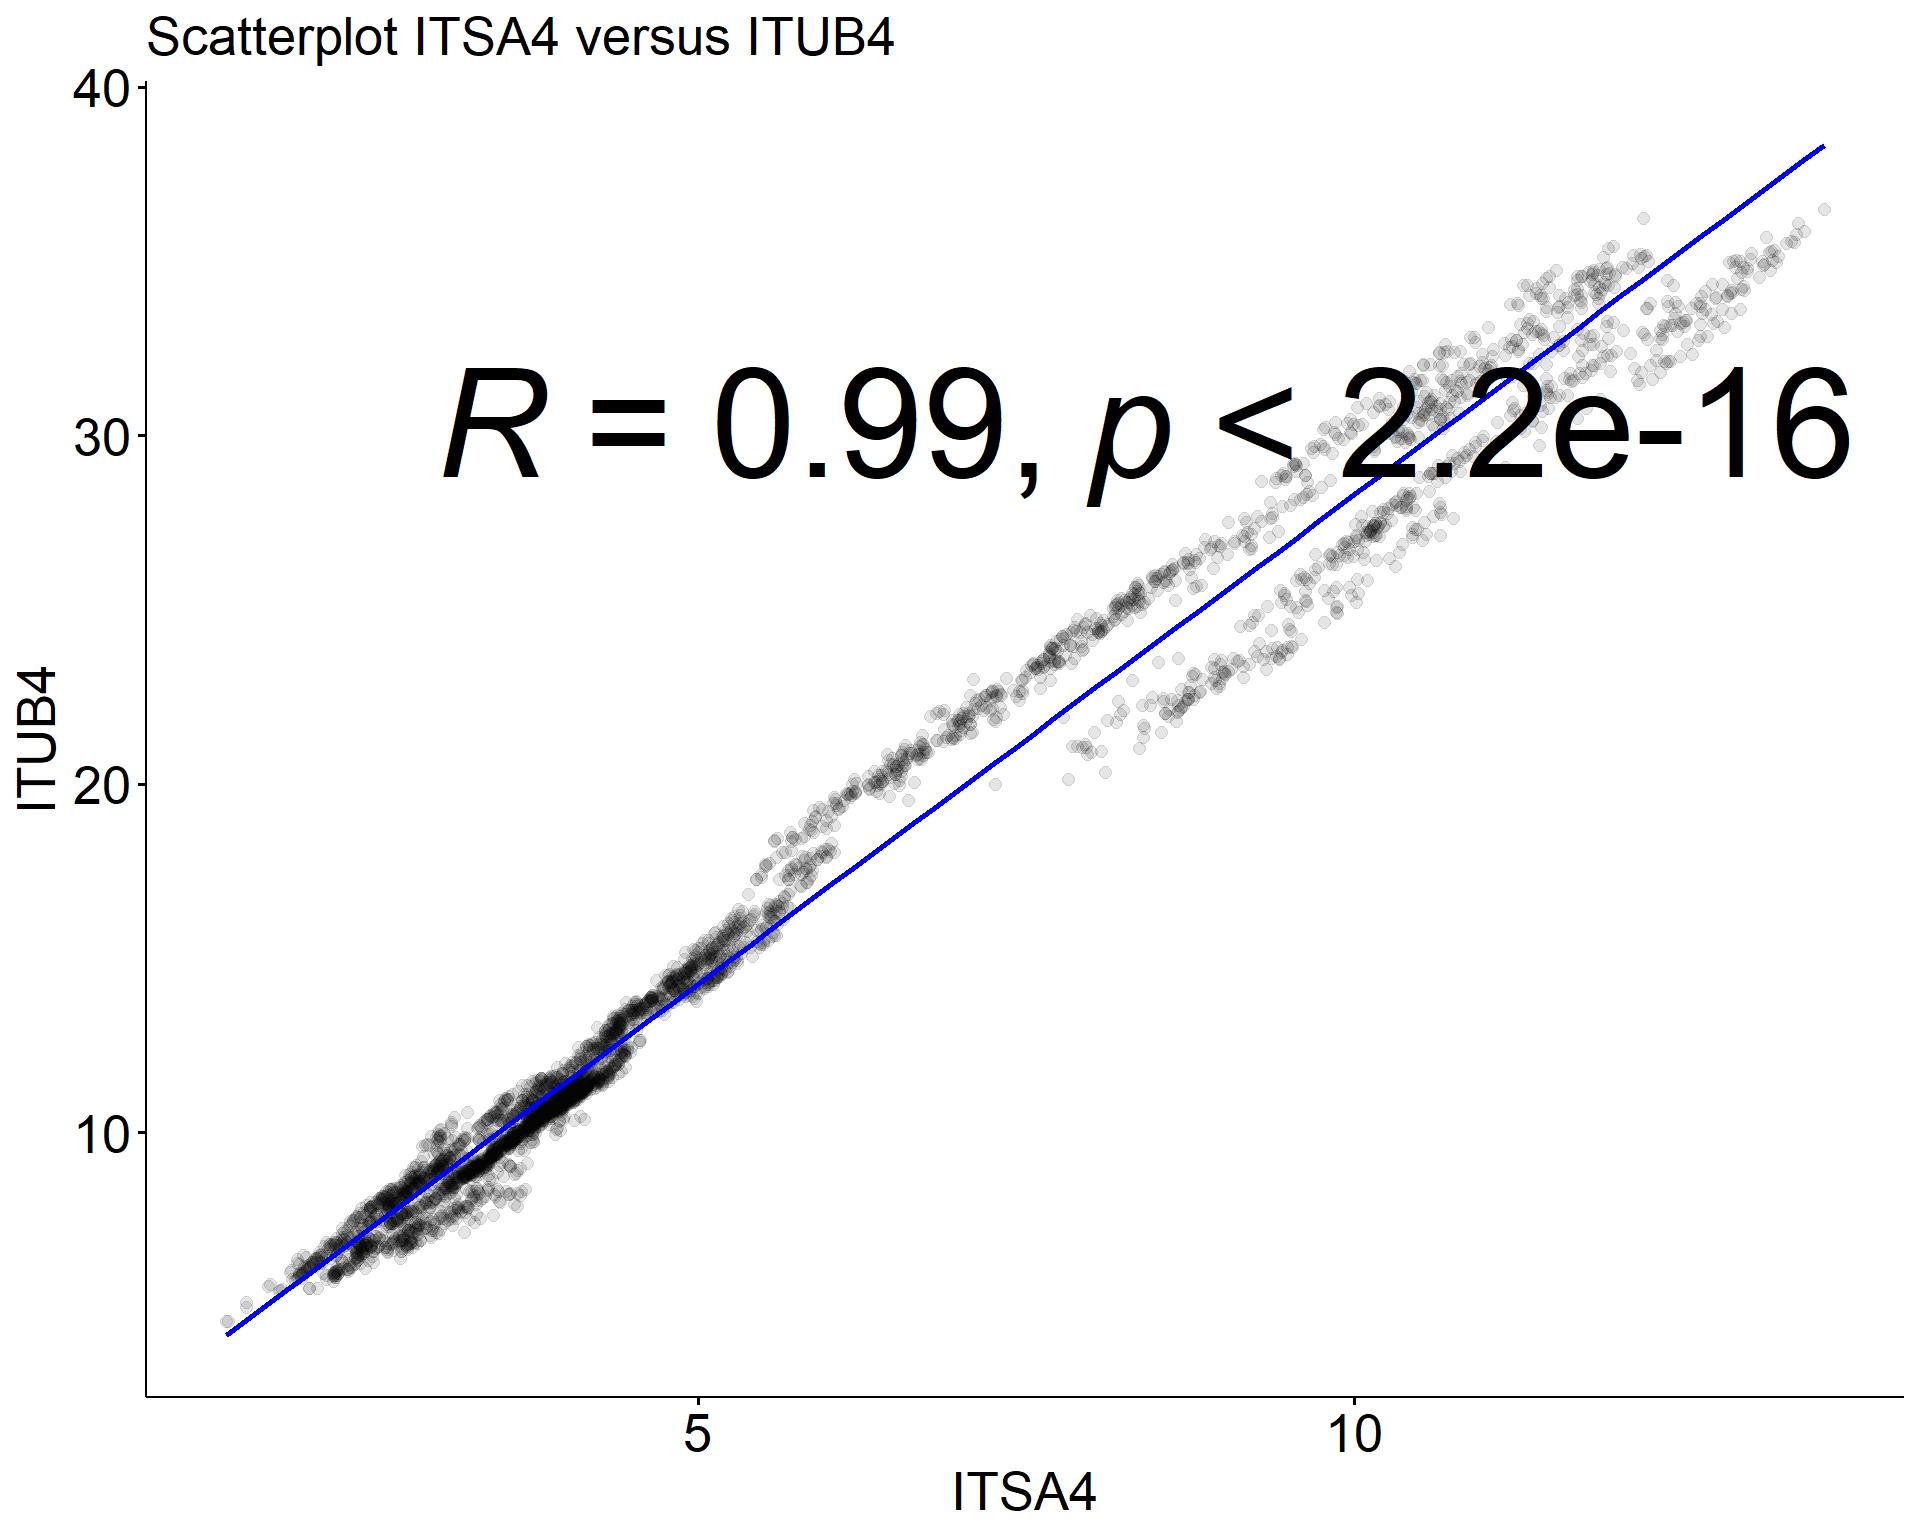
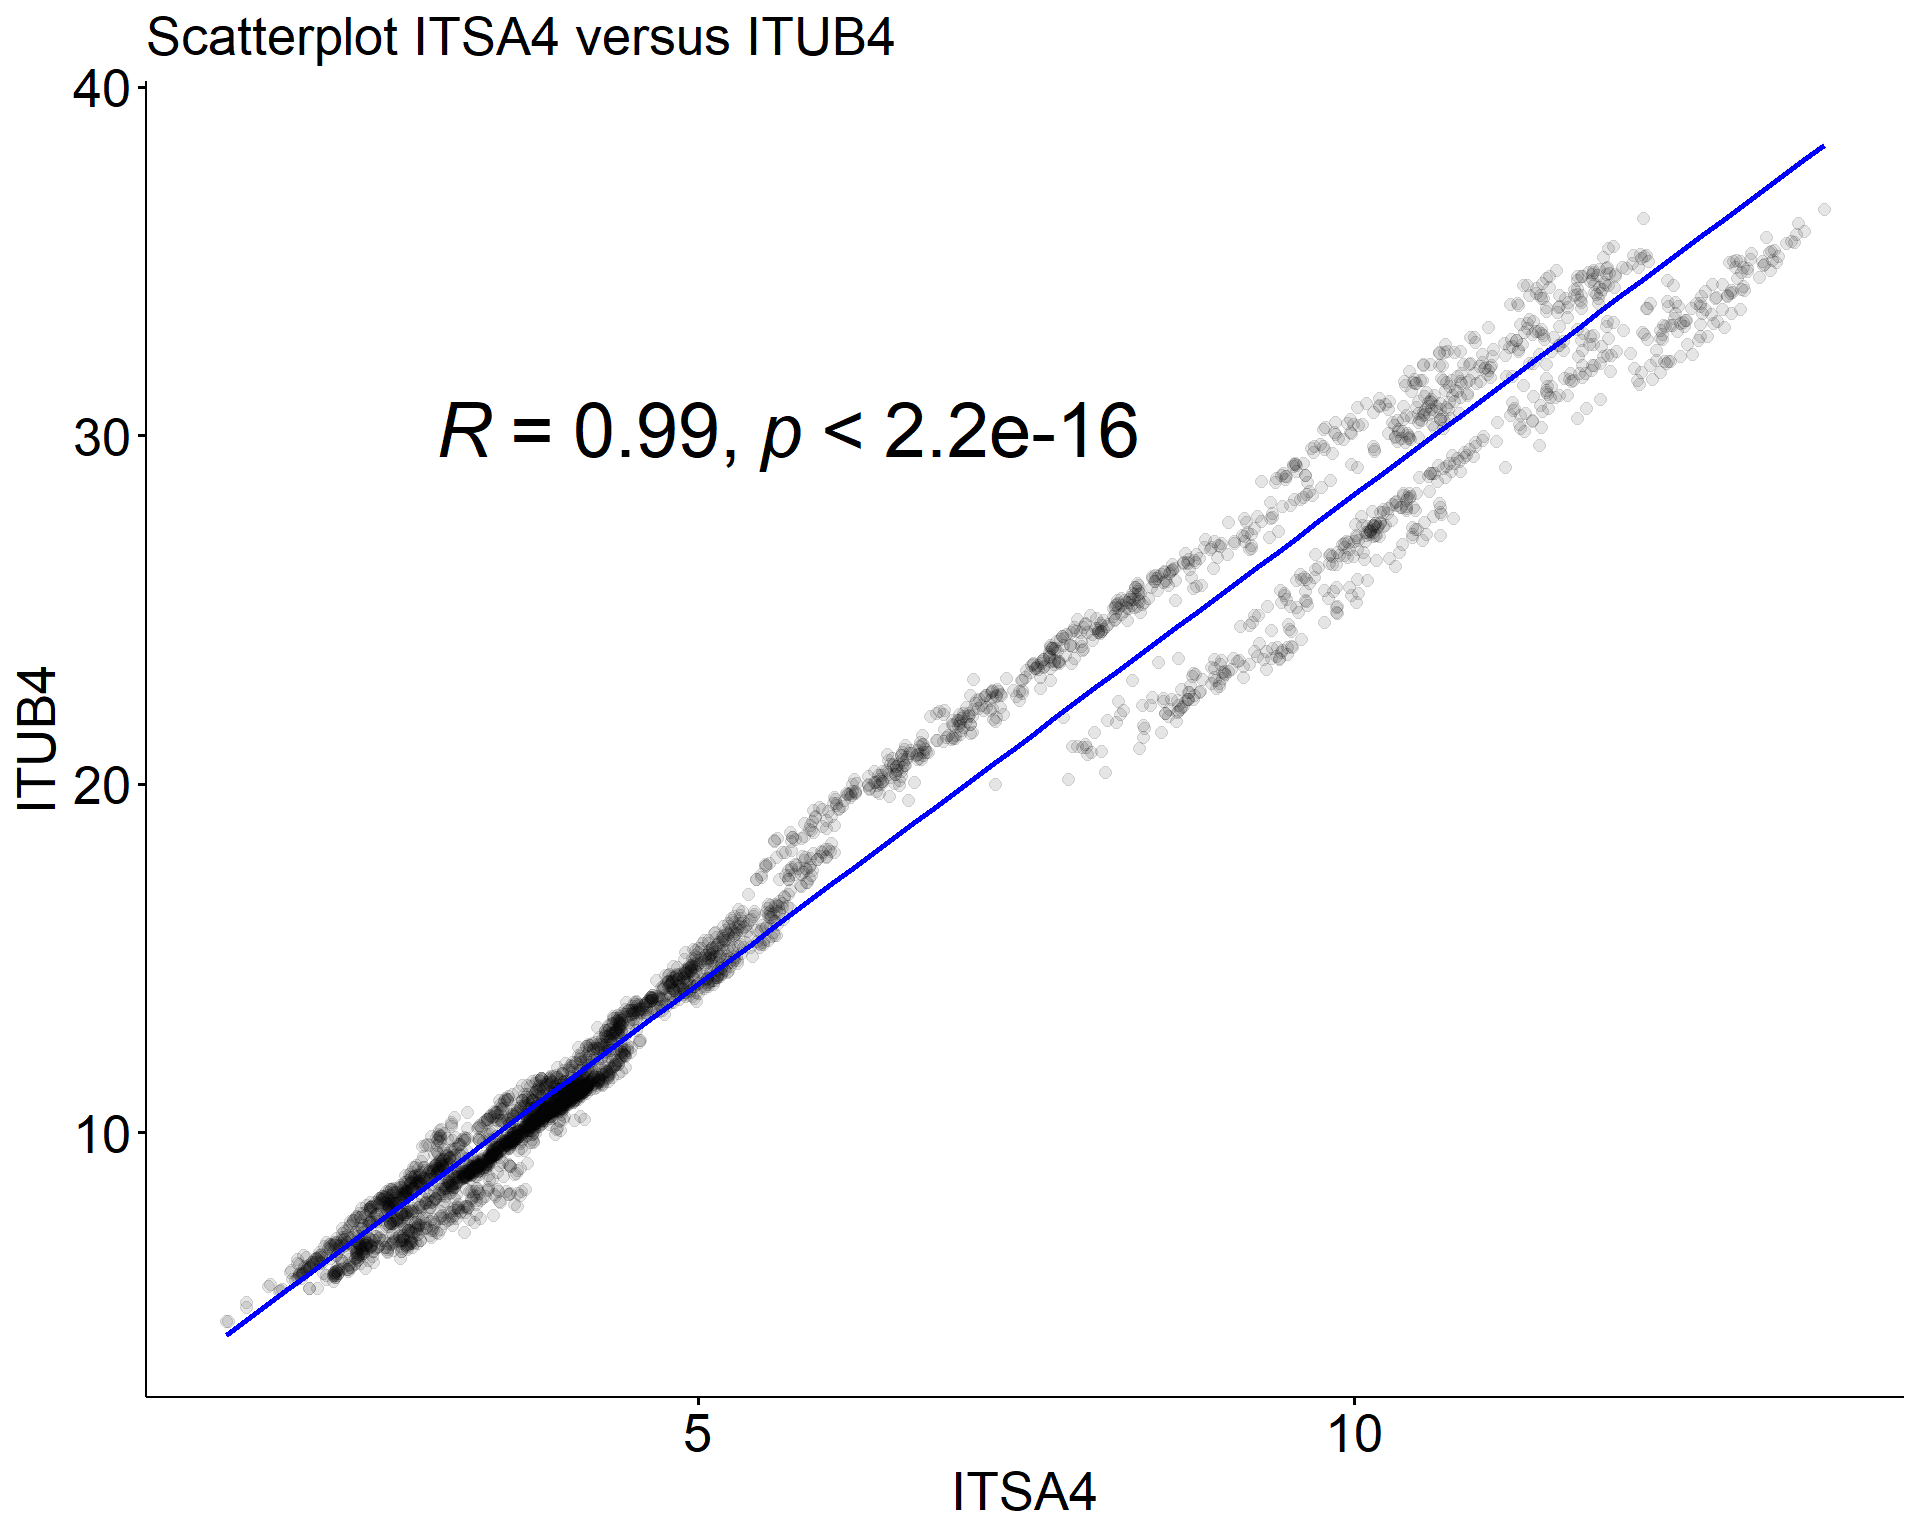
Update post

Changed region(s): [[0.2188, 0.2188, 0.9688, 0.3438]]

diff --git a/content/post/2021-07-31-arbitrate-itsa4-itub4/index.en.html b/content/post/2021-07-31-arbitrate-itsa4-itub4/index.en.html
@@ -48,7 +48,7 @@ g &lt;- ggscatter(data = merge, x = &quot;itsa_price&quot;, y = &quot;itub_price
                add.params = list(color = &quot;blue&quot;, fill = &quot;lightgray&quot;), 
                conf.int = TRUE)
 g + 
-  stat_cor(method = &quot;pearson&quot;, label.x = 3, label.y = 30, size = 20) + 
+  stat_cor(method = &quot;pearson&quot;, label.x = 3, label.y = 30, size = 10) + 
   labs(x = &quot;ITSA4&quot;,
        y = &quot;ITUB4&quot;,
        title = &quot;Scatterplot ITSA4 versus ITUB4&quot;) + 
